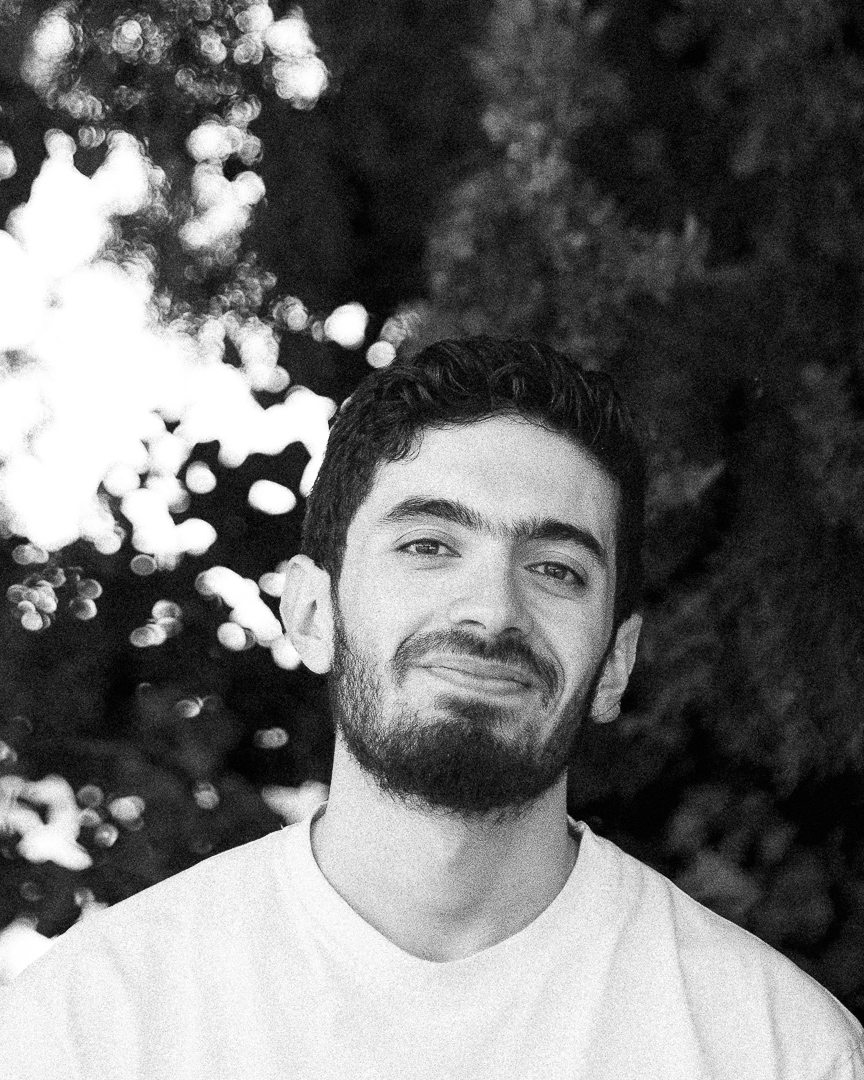
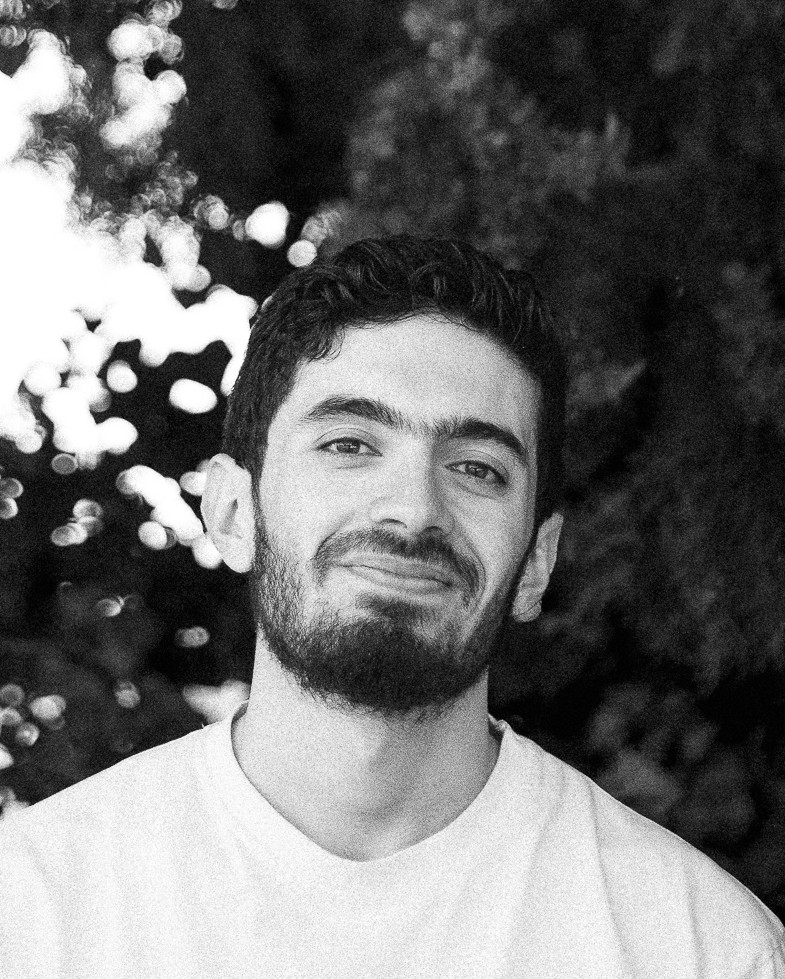
Profile_pic

diff --git a/style.css b/style.css
@@ -109,12 +109,16 @@ nav ul li a:hover {
 
 .profile-picture {
     display: block;
-    margin: 0 auto 10px; /* Reduced from 20px to 10px */
-    max-width: 150px; /* Reduced from 200px to 150px */
+    margin: 0 auto 10px;
+    width: 150px; /* Fixed container width */
+    height: 150px; /* Same as width for perfect circle */
     border-radius: 50%;
     box-shadow: var(--shadow-lg);
     transition: var(--transition-normal);
+    object-fit: cover; /* Key property for handling different image dimensions */
+    object-position: center; /* Centers the image within the container */
 }
+
 
 .profile-picture:hover {
     transform: scale(1.05);
